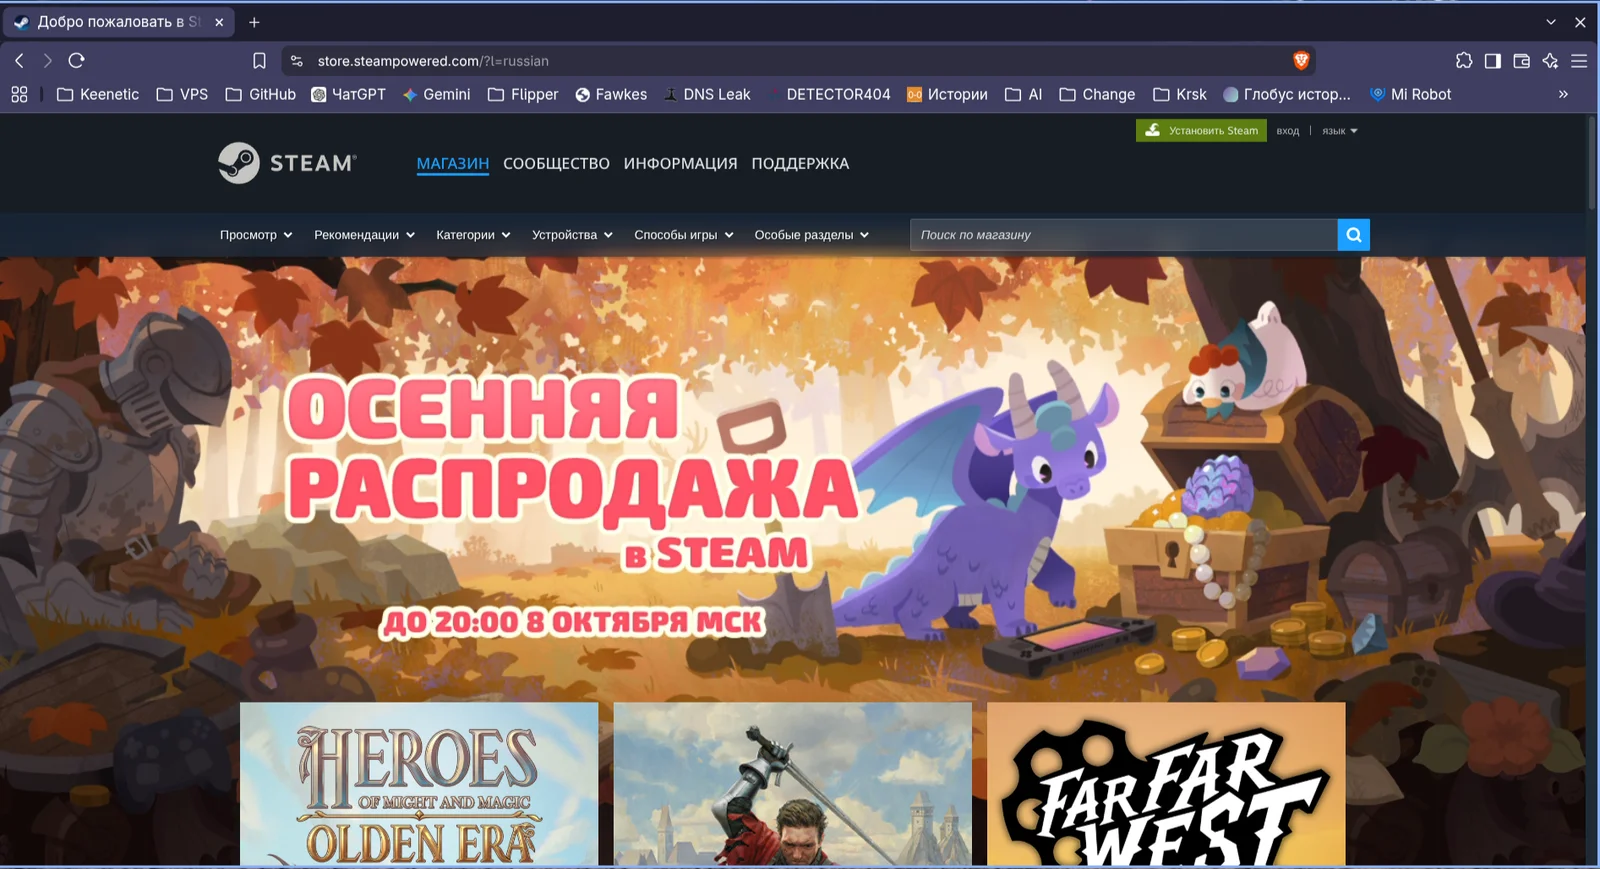
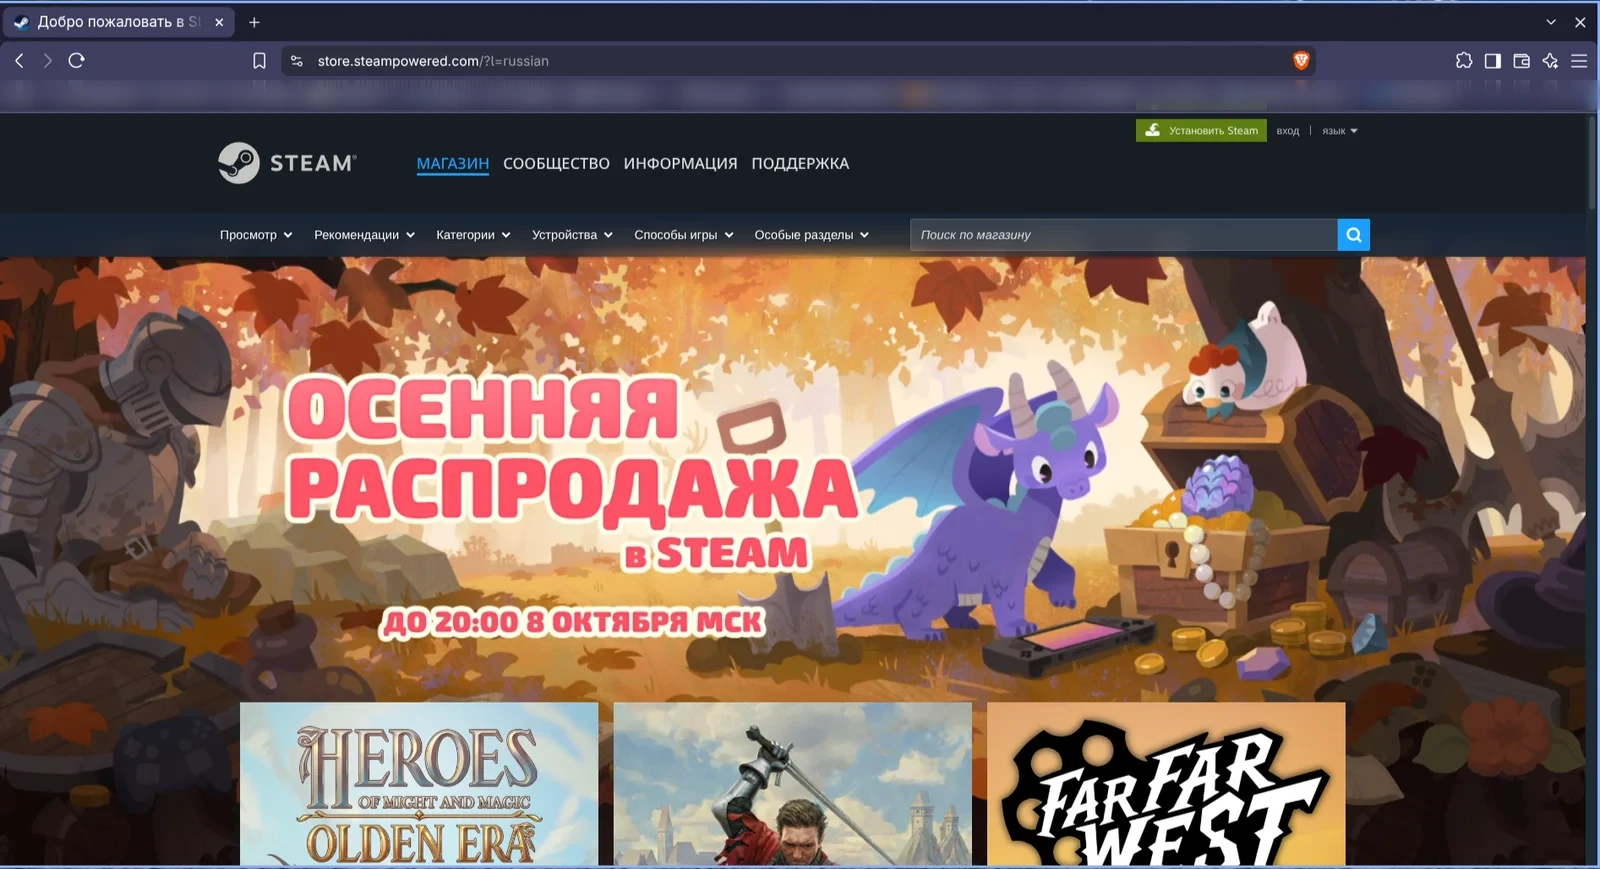
manual/ru: collapse 17 duplicate screenshots to ../images, blur personal data

Changed region(s): [[0.0, 0.0932, 0.4688, 0.1243], [0.5, 0.0932, 0.9062, 0.1243], [0.9688, 0.0932, 1.0, 0.1243]]

diff --git a/manual/ru/50-dual-boot-install.md b/manual/ru/50-dual-boot-install.md
@@ -8,28 +8,28 @@
 
 Чтобы установить рядом с Windows, введите `disk management` в меню «Пуск» и выберите вариант **Create and format hard disk partitions**.
 
- ![dual-boot-1](images/dual-boot-1.webp)
+ ![dual-boot-1](../images/dual-boot-1.webp)
 
 Найдите подходящий раздел, щёлкните правой кнопкой и выберите **Shrink Volume**.
 
-![dual-boot-2](images/dual-boot-2.webp)
+![dual-boot-2](../images/dual-boot-2.webp)
 
  Введите размер, на который хотите сжать том. Обратите внимание: это будет размер вашей будущей установки Omarchy, включая загрузочный раздел.
 
- ![dual-boot-3](images/dual-boot-3.webp)
+ ![dual-boot-3](../images/dual-boot-3.webp)
 
 Когда закончите, вы должны увидеть что-то вроде этого, где секция в 50GB — это место, куда мы в этом примере установим Omarchy.
 
- ![dual-boot-4](images/dual-boot-4.webp)
+ ![dual-boot-4](../images/dual-boot-4.webp)
 
 ## Установка Omarchy
 
 Процесс установки Omarchy фактически такой же, как обычно. После выбора диска вам будет предложен вариант **Free space install**. Выберите этот вариант, чтобы не стереть весь диск.
 
- ![dual-boot-5](images/dual-boot-5.webp)
+ ![dual-boot-5](../images/dual-boot-5.webp)
 
 Подтвердите, что всё выглядит хорошо, и дождитесь завершения установки как обычно. Здесь же можно выбрать установку без шифрования (не рекомендуется), как и при установке на весь диск.
- ![dual-boot-6](images/dual-boot-6.webp)
+ ![dual-boot-6](../images/dual-boot-6.webp)
 
 ## Добавление других установок в загрузчик
 
@@ -41,4 +41,4 @@
 
 Важно отметить, что этот метод установки несовместим с Bitlocker, поскольку он шифрует весь диск, а не только раздел. Если вы столкнётесь с ошибкой о том, что Bitlocker включён, загрузитесь в Windows, перейдите в **Settings -> Privacy & Security -> Device encryption** и отключите Bitlocker. Расшифровка диска может занять некоторое время.
 
- ![dual-boot-7](images/dual-boot-7.webp)
+ ![dual-boot-7](../images/dual-boot-7.webp)

diff --git a/manual/ru/47-system-snapshots.md b/manual/ru/47-system-snapshots.md
@@ -6,11 +6,11 @@
 
 На этом экране выберите снимок, в который хотите загрузиться, по дате и версии. Версию Omarchy на момент снимка можно увидеть в левом нижнем углу.
 
- ![snapshots-bootloader](images/snapshots-bootloader.webp)
+ ![snapshots-bootloader](../images/snapshots-bootloader.webp)
 
 Когда вы попадёте внутрь, появится уведомление о том, что вы находитесь в загрузочном снимке, и если вы по нему щёлкнете, начнётся процесс восстановления. В качестве альтернативы можно использовать `omarchy-snapshot restore`.
 
- ![snapshots-restore](images/snapshots-restore.webp)
+ ![snapshots-restore](../images/snapshots-restore.webp)
 
 Это восстановит вашу корневую файловую систему, но не ваш `/home`. Так что это работает для отката сломанного обновления системы, но не для восстановления потерянных личных файлов.
 

diff --git a/manual/ru/28-windows-vm.md b/manual/ru/28-windows-vm.md
@@ -6,7 +6,7 @@ Omarchy предлагает простой способ запускать Wind
 
 Установщик спросит, сколько RAM, сколько ядер CPU и сколько диска отдать (64 ГБ или больше — разумный минимум), затем имя пользователя и пароль Windows. Оставьте их пустыми — и получите `docker` / `admin`. Скачивание занимает время — 10–15 минут это нормально — и за прогрессом можно следить в браузере по адресу `http://127.0.0.1:8006`. Перед открытием консоли браузер запросит те же имя пользователя и пароль.
 
- ![windows-vm](images/windows-vm.webp)
+ ![windows-vm](../images/windows-vm.webp)
 
 ## Использование
 

diff --git a/manual/ru/02-getting-started.md b/manual/ru/02-getting-started.md
@@ -8,11 +8,11 @@ _Вы должны отключить Secure Boot и/или TPM в BIOS. Вы д
 
 Затем ответьте на вопросы настройки и подтвердите их вот так:
 
- ![install-config](images/install-config.webp)
+ ![install-config](../images/install-config.webp)
 
 Затем выберите диск для установки, откиньтесь назад и смотрите шоу установки. На самых быстрых современных машинах это можно сделать менее чем за минуту, но даже на более старом компьютере это не должно занять больше 5 минут.
 
- ![install-done](images/install-done.webp)
+ ![install-done](../images/install-done.webp)
 
 Теперь вы готовы к Omarchy!
 

diff --git a/manual/ru/45-troubleshooting.md b/manual/ru/45-troubleshooting.md
@@ -32,6 +32,6 @@ Omarchy рассчитывает на дисплей высокого разре
 
 Для появления расширенного окна подтверждения в Settings > Advanced > Use Hardware Acceleration должно быть включено аппаратное ускорение. _Примечание: для этого требуется перезагрузка._
 
- ![troubleshooting-1password](images/troubleshooting-1password.webp)
+ ![troubleshooting-1password](../images/troubleshooting-1password.webp)
 
 Или если вы не запускали 1Password с момента загрузки, запрос не появится.

diff --git a/manual/ru/41-branding.md b/manual/ru/41-branding.md
@@ -12,7 +12,7 @@ omarchy plymouth preview '#1d2021' '#ebdbb2' logo.png preview.png
 
 Затем примените настройку командой `omarchy plymouth set '#1d2021' '#ebdbb2' logo.png` — она также придаст экрану входа SDDM те же цвета и логотип. Если захотите вернуть всё обратно, используйте `omarchy plymouth reset`.
 
- ![branding-plymouth-shopify](images/branding-plymouth-shopify.webp)
+ ![branding-plymouth-shopify](../images/branding-plymouth-shopify.webp)
 
 ### Заставка
 

diff --git a/manual/ru/44-mac-support.md b/manual/ru/44-mac-support.md
@@ -6,7 +6,7 @@
 
 В простом тесте мы добились прироста производительности на 36% на MacBook Pro 2019 года просто за счёт установки Omarchy.
 
- ![macbook-omarchy](images/macbook-omarchy.webp)
+ ![macbook-omarchy](../images/macbook-omarchy.webp)
 
 ### Установка Omarchy на Mac
 
